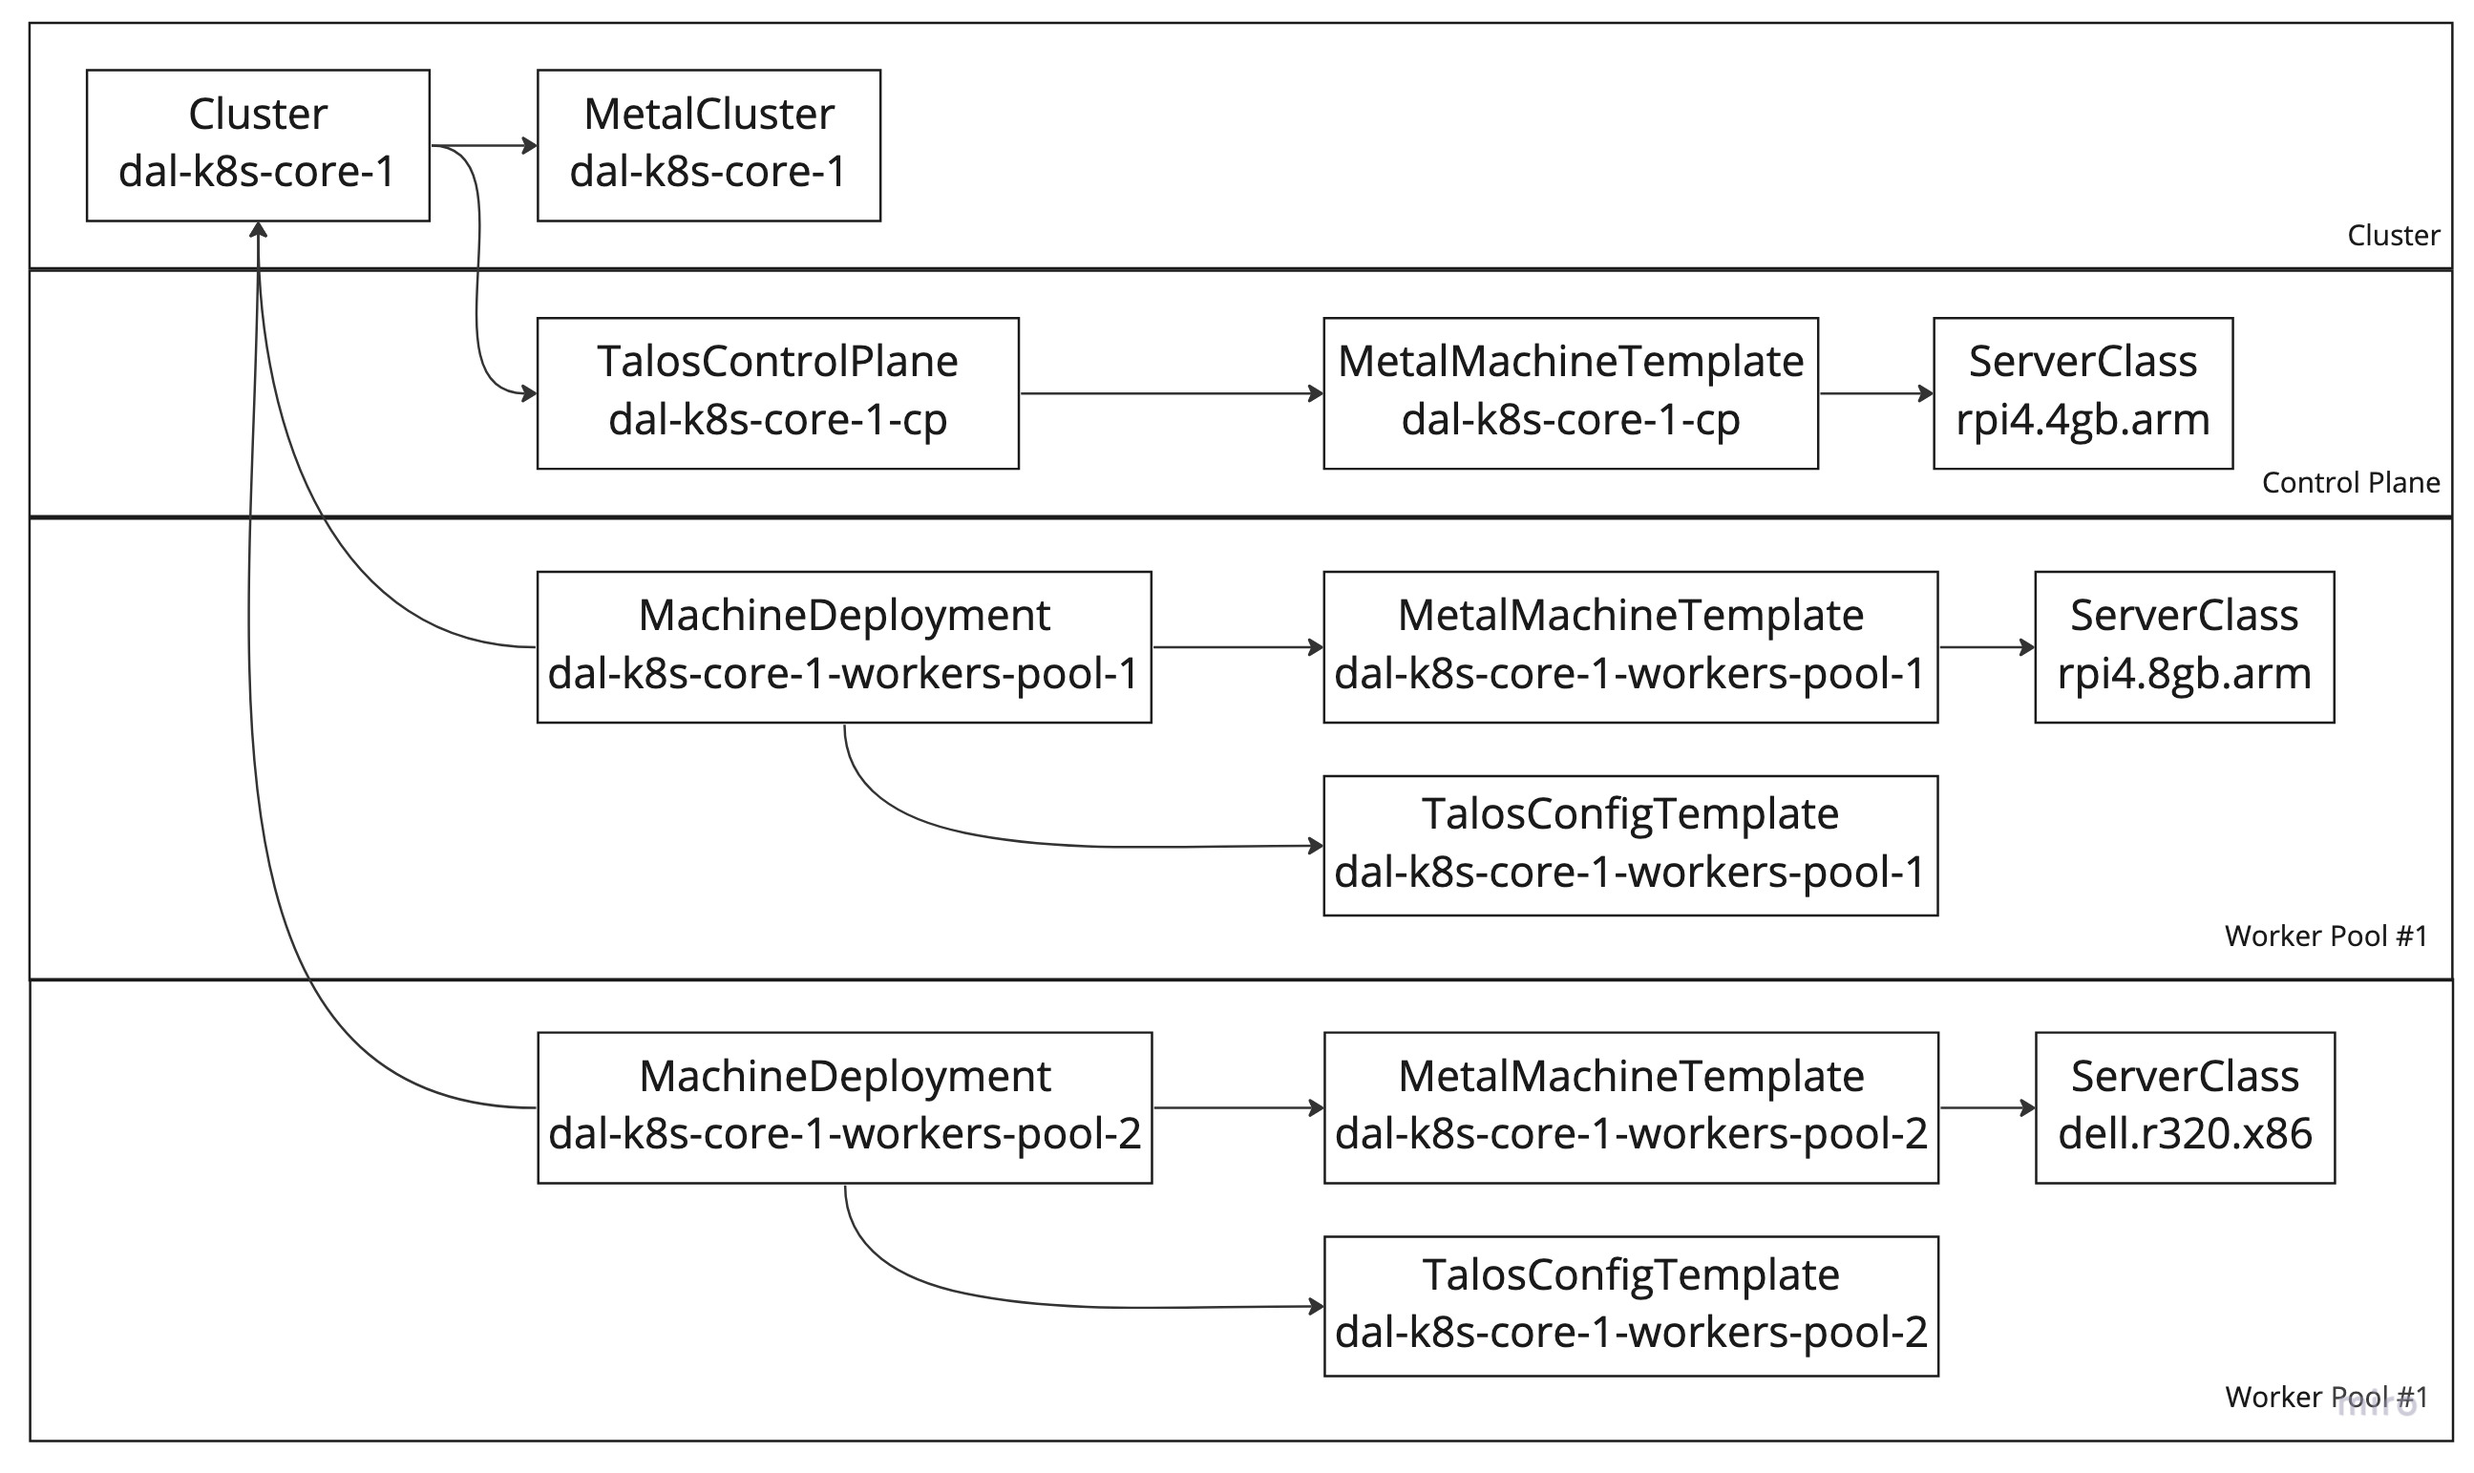
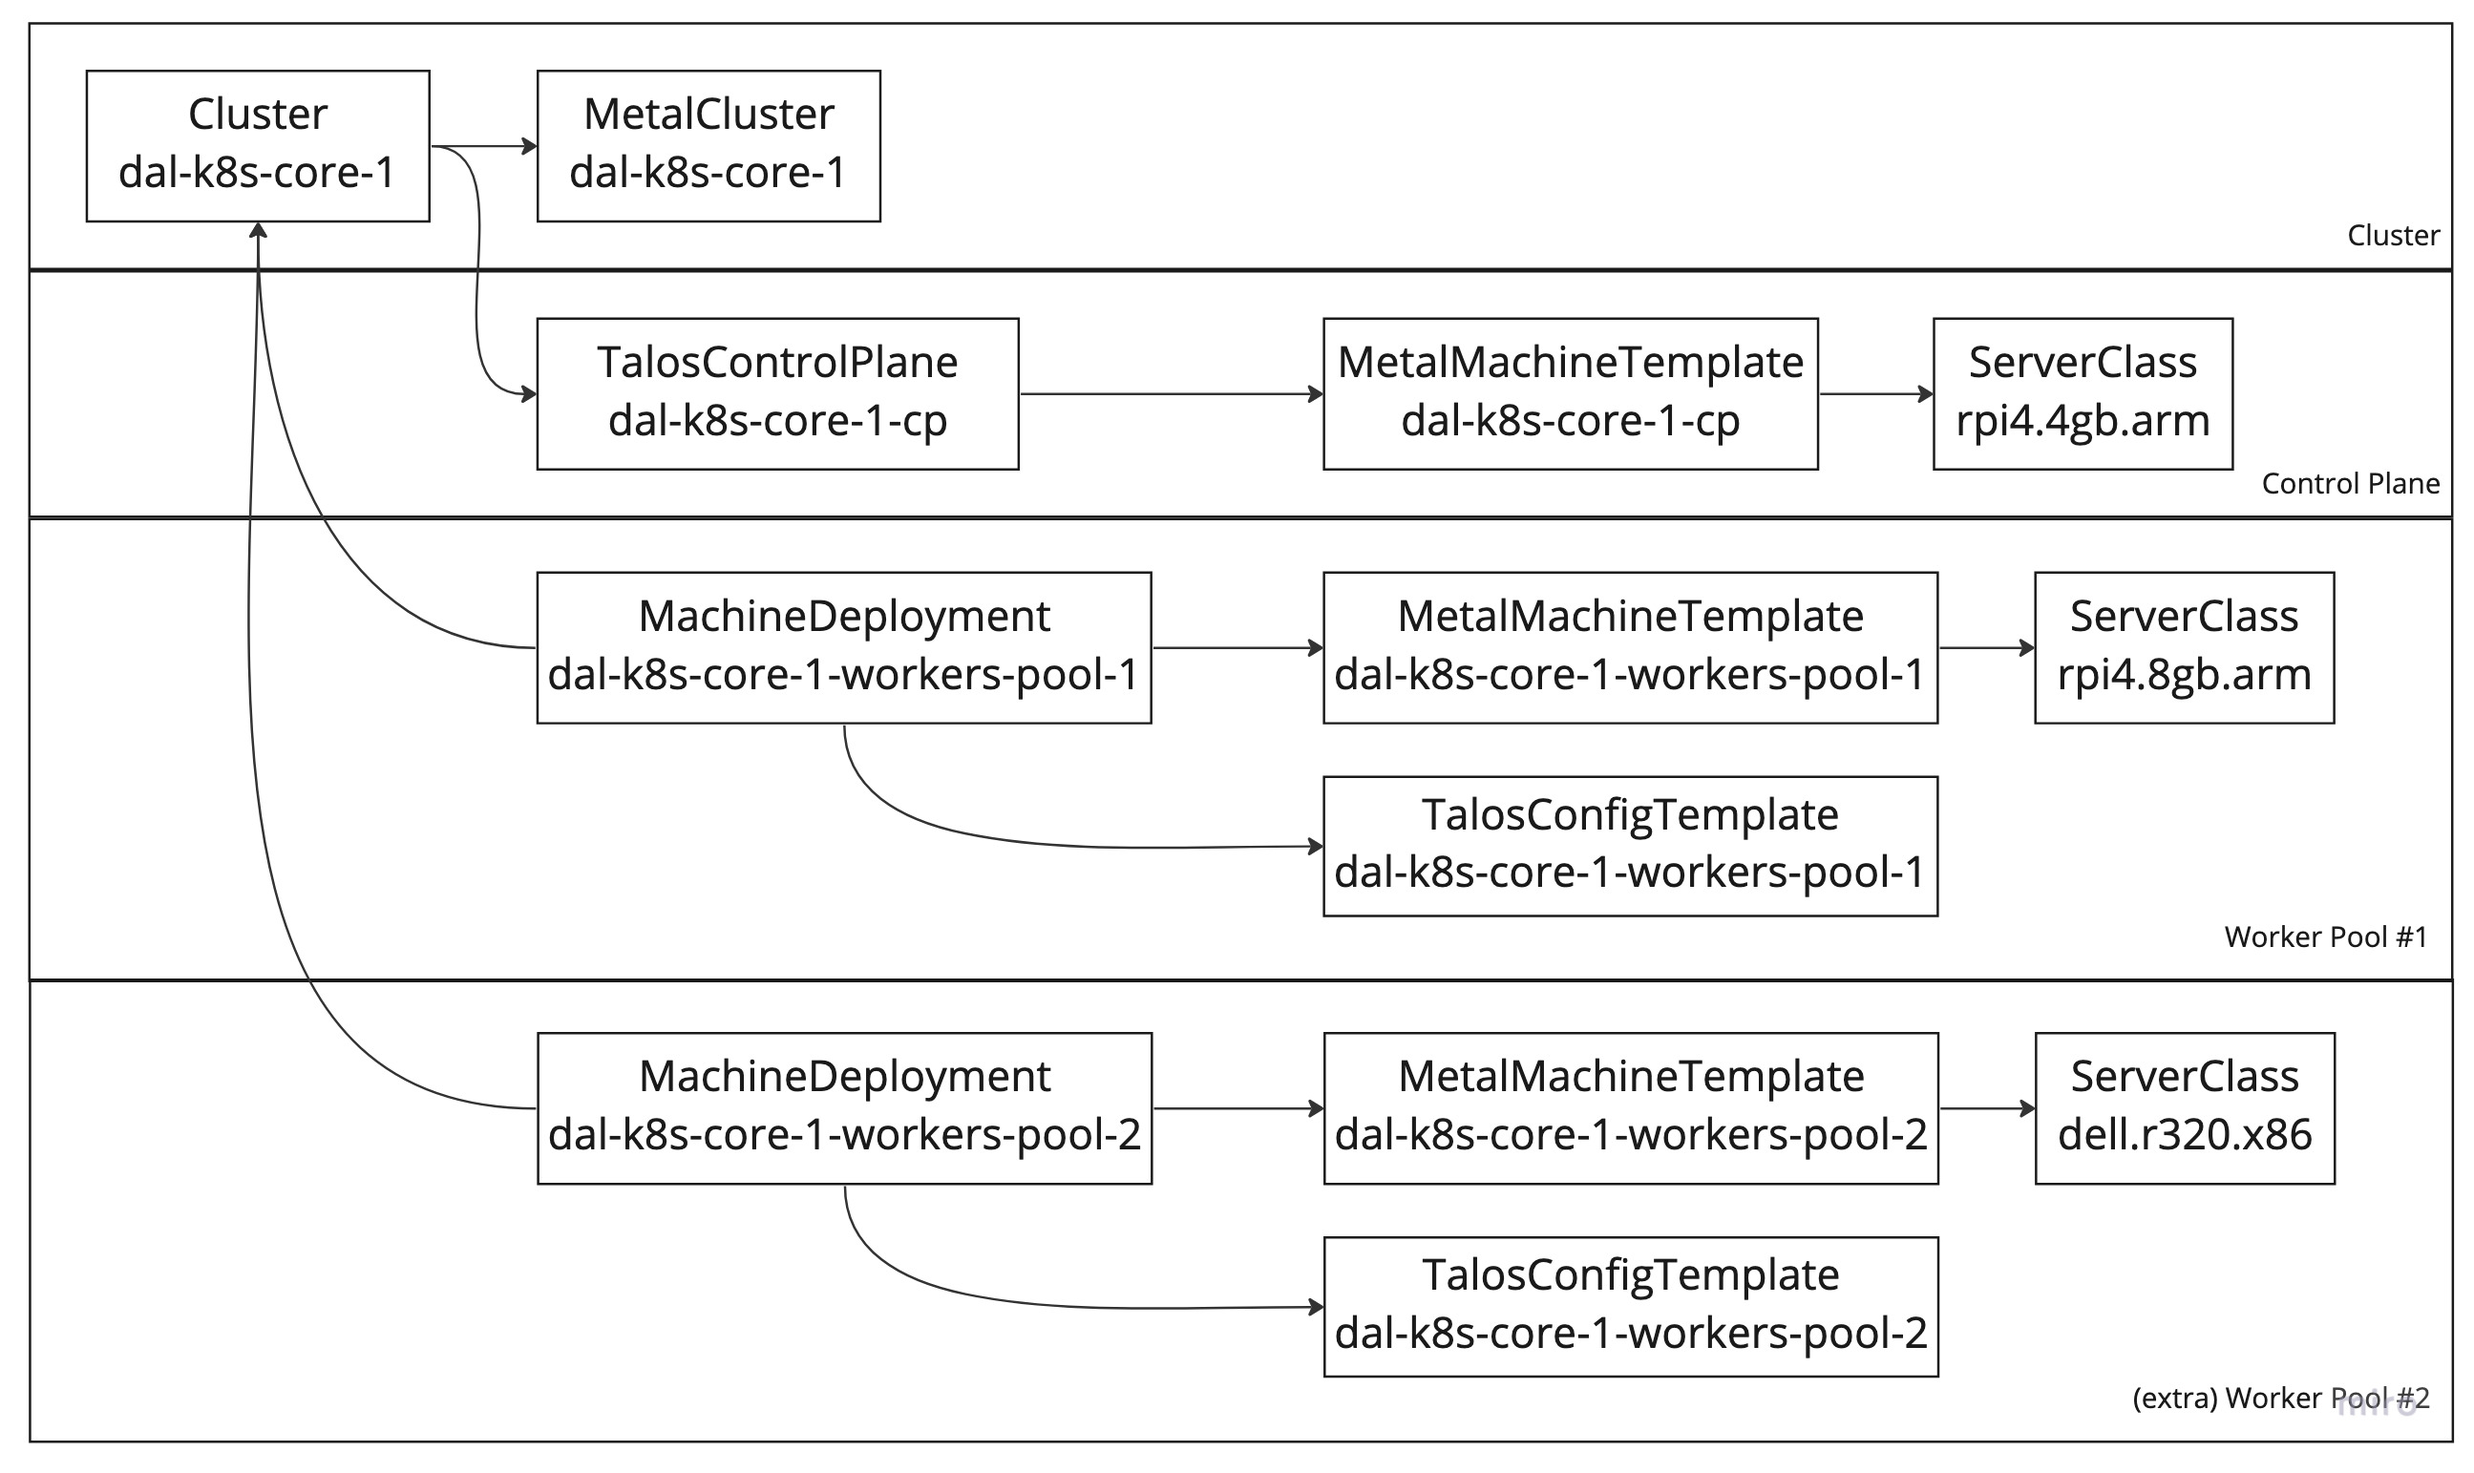
Tweaking doco and image for cluster api resources

diff --git a/sites/indigo/docs/CLUSTER-CORE-BOOTSTRAP.md b/sites/indigo/docs/CLUSTER-CORE-BOOTSTRAP.md
@@ -23,7 +23,7 @@ clusterctl generate cluster dal-k8s-core-1 \
     > sidero/clusters/dal-k8s-core-1.yaml
 ```
 
-The above will create a 'cluster configuration' that we can apply back to k8s to kick off creation of the cluster. It contains the following Resources in 3x logical groups.
+The above will create a 'cluster configuration' that we can apply back to k8s to kick off creation of the cluster. It contains the following Resources in 3x logical groups. The diagram also shows off an extra Worker Pool that isn't generated by default, but just shows how you'd go about having multiple Server Classes in a single cluster.
 
 ![cluster api hierarchy](imgs/core-cluster-api-resources.jpg?raw=true "Cluster API Hierarchy")
 
